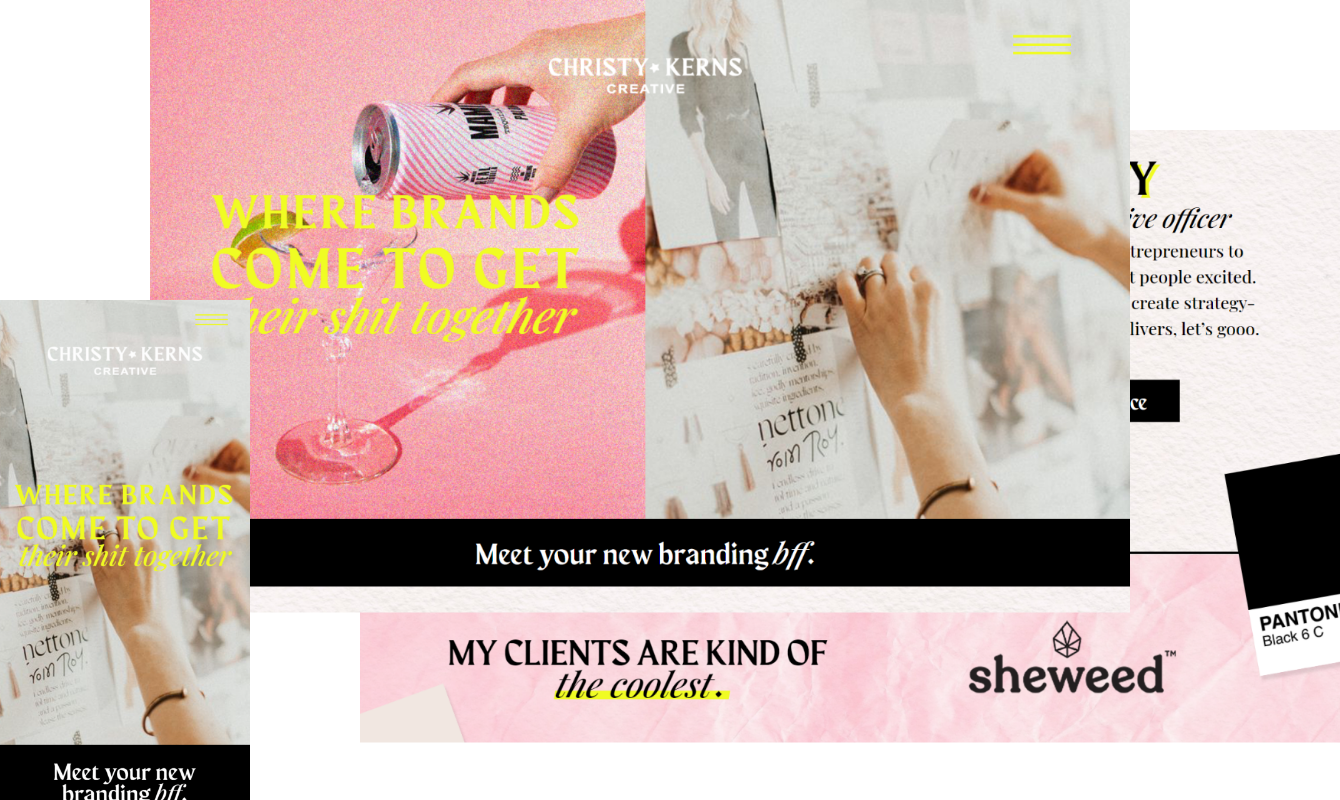
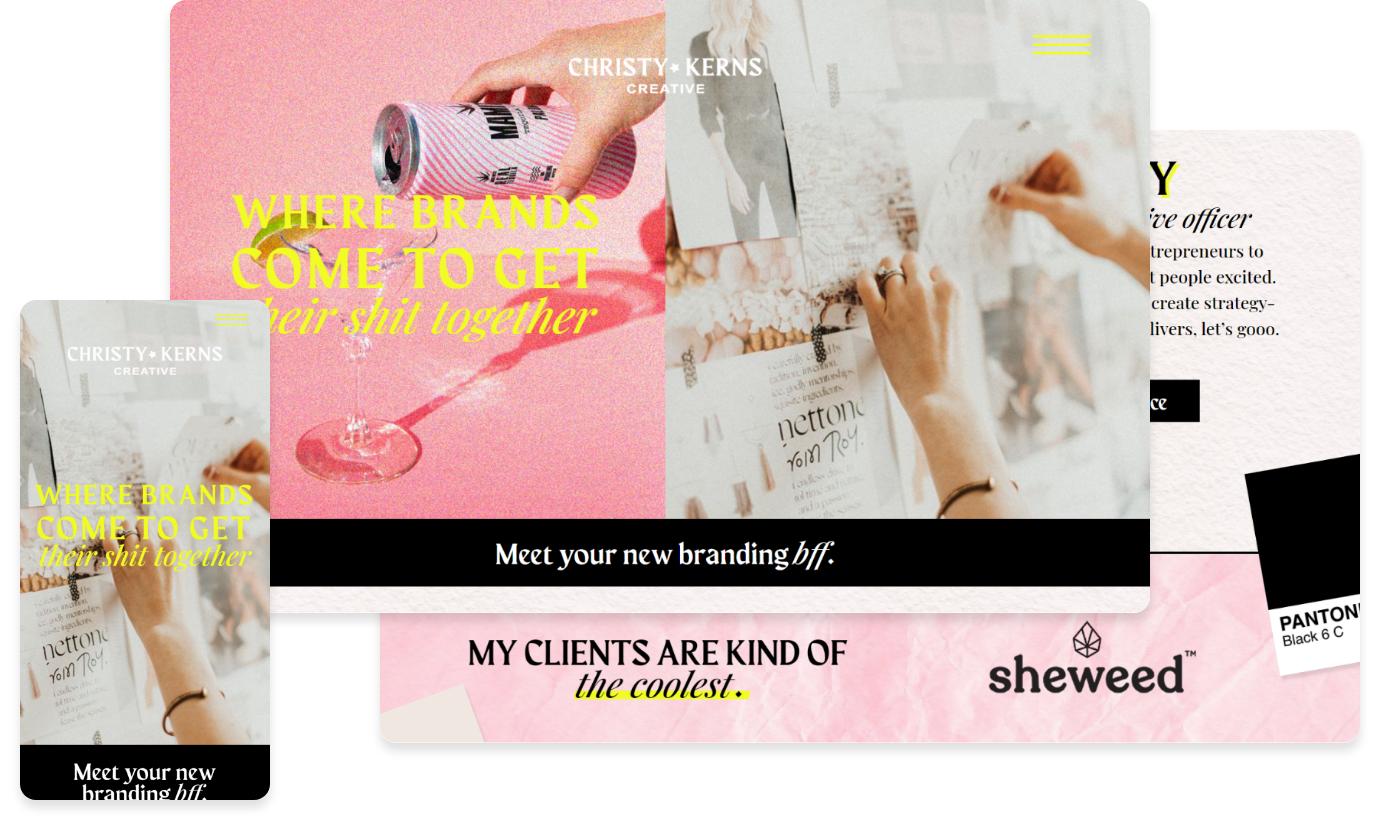
add linkedin, update work page

Changed region(s): [[0.0, 0.0, 1.0, 1.0], [0.7343, 0.0312, 0.7955, 0.0938]]

diff --git a/src/lib/projects.js b/src/lib/projects.js
@@ -1,15 +1,16 @@
 import christykernsimage from "$lib/assets/christykerns.com_mock.png?width=500;1200&format=webp;png&srcset";
 import spacebarimage from "$lib/assets/spacebaragency.com_seo-audit_mock.png?width=500;1200&format=webp;png&srcset";
-import qotoimage from "$lib/assets/qoto.com_mock.png?width=500;1200&format=webp;png&srcset";
+import coffeedoseimage from "$lib/assets/coffeedose.cafe_mock.png?width=500;1200&format=webp;png&srcset";
+import iconbrowserimage from "$lib/assets/icon-browser_mock.png?width=500;1200&format=webp;png&srcset";
 
 export const projects = [
   {
-    site: "christykerns.com",
-    client: "Design Agency",
-    service: "WordPress Development",
+    site: "coffeedose.cafe",
+    client: "Coffee Shop",
+    service: "Shopify Development",
     notes:
-      "This was a completely custom build from scratch. Which is why WordPress was a good fit because it is so flexible. The design was very unique and required attention to detail and implementing different features: overlapping elements, layout changes based on device size, typography effects, scroll-based animations.",
-    image: christykernsimage,
+      "A popular coffee shop with a unique brand and multiple stores needed to build their site on Shopify. They had a thriving eCommerce store with specialized products. With a custom-built theme, I was able to effectively integrate their brand with site features such as a video hero section, newsletter modal with configurable timing, and map embeds",
+    image: coffeedoseimage,
   },
   {
     site: "spacebaragency.com",
@@ -20,11 +21,19 @@ export const projects = [
     image: spacebarimage,
   },
   {
-    site: "qoto.com",
-    client: "eCommerce Startup",
-    service: "Shopify Development",
+    site: "christykerns.com",
+    client: "Design Agency",
+    service: "WordPress Development",
     notes:
-      "A startup that needed a storefront for their high volume business, that would be capable of showcasing many products for online shoppers. I integrated their brand into a customized theme build, with features such as: an automatic carousel, rotating announcement banner, background video banner, and featured card design.",
-    image: qotoimage,
+      "This was a completely custom build from scratch. Which is why WordPress was a good fit because it is so flexible. The design was very unique and required attention to detail and implementing different features: overlapping elements, layout changes based on device size, typography effects, scroll-based animations.",
+    image: christykernsimage,
+  },
+  {
+    site: "design-flow.io",
+    client: "Design Inspiration",
+    service: "Web App Development",
+    notes:
+      "This was a side project for one of my clients. They wanted to build a community resource for designers. They tasked me with building an app to easily filter and choose icons for visitors. I used filtering, theming, pagintion, copy-paste functionality, and cloud storage for hosting icon assets.",
+    image: iconbrowserimage,
   },
 ];

diff --git a/src/routes/__layout.svelte b/src/routes/__layout.svelte
@@ -86,6 +86,13 @@
       <svg viewBox="0 0 24 24" width="24" height="24"
         ><use href="/github.svg#icon" /></svg>
     </a>
+    <a
+      href="https://www.linkedin.com/in/rory-hendrickson-86096b98/"
+      rel="external">
+      <span class="sr-only">Rory's LinkedIn</span>
+      <svg viewBox="0 0 24 24" width="24" height="24"
+        ><use href="/linkedin.svg#icon" /></svg>
+    </a>
   </p>
   <p>
     <span class="copyright-c">&copy;</span>{new Date().getFullYear()} Rory Hendrickson
